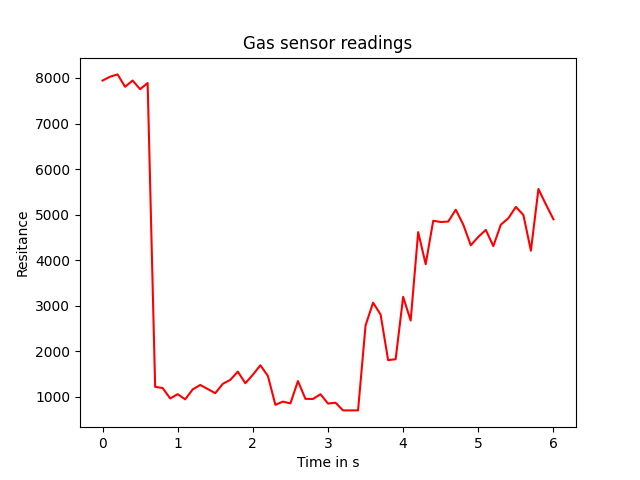
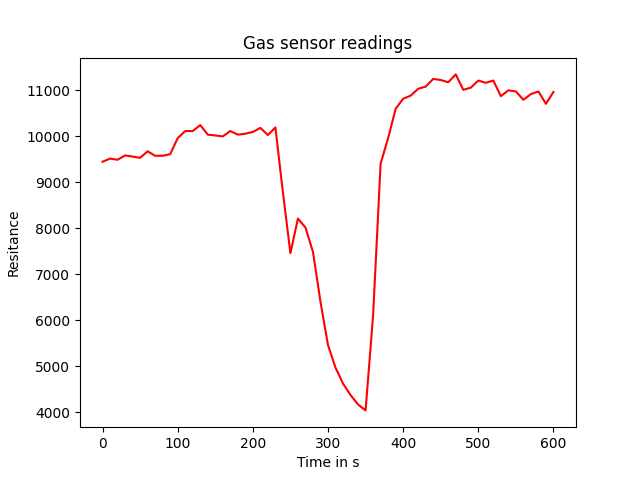
task2

diff --git a/Module_3/Task2/task1_read.py b/Module_3/Task2/task1_read.py
@@ -11,24 +11,33 @@ x = input()
 
 if(x=='l'):
     loaded = np.load(file)
-    gas = loaded['gas']
+    voc = loaded['voc']
+    co2 = loaded['co2']
 
 else:
-    serial_obj = serial.Serial('COM7', 115200 , timeout=1)
+    serial_obj = serial.Serial('/dev/cu.usbmodem21CBF3D62', 115200 , timeout=1)
     time.sleep(1)
     serial_obj.flush()
     serial_obj.write("r".encode())
     time.sleep(3)
     
+    
+
+    accuracy = 0
+    while(accuracy!=3):
+        read = serial_obj.readline()
+        if(read):
+            read =read.decode().strip().split(',')
+            accuracy = int(read[2])
+            print(read)
+
+    input()
+
+
     voc = []
     co2 =[]
     accuracy= []
 
-    accuracy_read = serial_obj.readline().strip.split(',')[2]
-
-    while(accuracy!=3):
-        print("Accuracy leve 3 is reached")
-    
     while (len(voc)<=60):
                 gas_read = serial_obj.readline()
                 if (gas_read):
@@ -49,21 +58,20 @@ else:
     np.savez(file,voc=voc , co2 = co2 , accuracy = accuracy  )
 
 
-range = (np.arange(0 , (gas.size*100) , 100))/1000
+range = np.arange(10 , (voc.size*10)+10, 10)/60
 
 plt.figure(1)
 plt.plot(range , voc , color = 'red')
 plt.xlabel('Time in s')
 plt.ylabel("VOC" )
 plt.title('Gas sensor readings')
-plt.savefig('Gas_sensor_readings')
+plt.savefig(ex_name+'voc' )
 
 plt.figure(2)
 plt.plot(range , co2 , color = 'blue')
 plt.xlabel('Time in s')
-plt.ylabel("Resitance" )
+plt.ylabel("Co2" )
 plt.title('Gas sensor readings')
-plt.savefig('Gas_sensor_readings')
-
+plt.savefig(ex_name+'co2')
 
 plt.show() 

diff --git a/Module_3/Task1/task1_read.py b/Module_3/Task1/task1_read.py
@@ -5,7 +5,7 @@ import numpy as np
 from scipy.stats import norm
 
 ex_name = input('Exp_name : ')
-file = 'outfile' + ex_name +'.npz'
+file = 'outfile' + ex_name + '.npz'
 
 x = input()
 
@@ -14,7 +14,7 @@ if(x=='l'):
     gas = loaded['gas']
 
 else:
-    serial_obj = serial.Serial('COM7', 115200 , timeout=1)
+    serial_obj = serial.Serial('/dev/cu.usbmodem0992BE7D2', 115200 , timeout=1)
     time.sleep(1)
     serial_obj.flush()
     serial_obj.write("r".encode())
@@ -36,9 +36,9 @@ else:
     np.savez(file,gas=gas )
 
 
-range = (np.arange(0 , (gas.size*100) , 100))/1000
+range = (np.arange(0 , (gas.size)*10 , 10))
 
-plt.figure(4)
+plt.figure(1)
 plt.plot(range , gas , color = 'red')
 plt.xlabel('Time in s')
 plt.ylabel("Resitance" )
